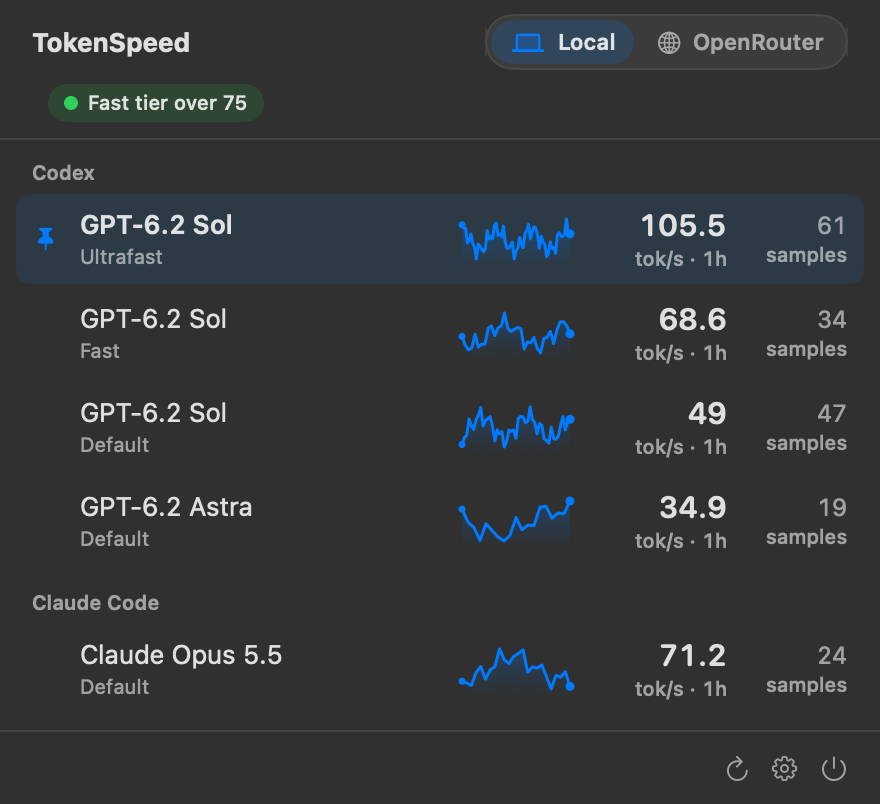
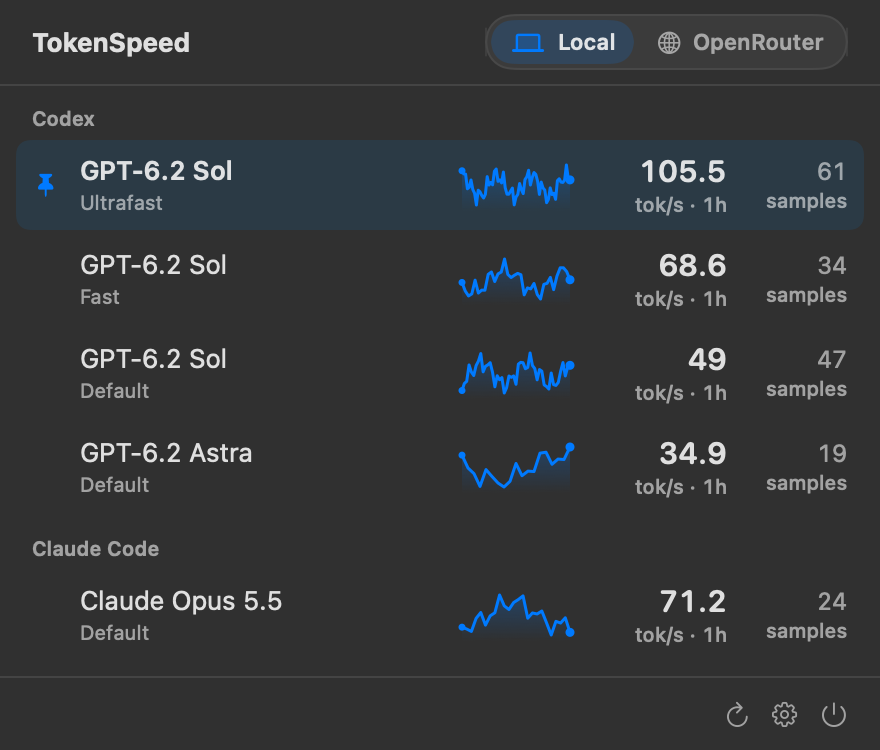
Make the TokenSpeed README easier to get started with

diff --git a/README.md b/README.md
@@ -6,25 +6,25 @@ A tiny macOS menu bar app that tracks output tokens per second for [OpenRouter](
 
 *Example data shown.*
 
-- **Local sessions.** See the last hour of Codex and Claude Code request TPS, grouped by model and speed tier, with sparklines and sample counts.
-- **OpenRouter watchlist.** Track median TPS and uptime for a specific provider, tier, or region, or let **Automatic** follow the fastest endpoint.
-- **Menu bar pin.** Hover over a row and click its pin to show that local model and tier or OpenRouter endpoint in the menu bar.
-- **Badge rules.** Set alerts on OpenRouter throughput or uptime. Active rules appear as colored dots in the menu bar and labeled pills in the popover.
-- **No API key or Dock icon.**
-
-The popover remembers whether you last viewed Local or OpenRouter.
-
 ## Install
 
-Requires macOS 14+, Swift 6, and [Task](https://taskfile.dev).
+Requires macOS 14+, Swift 6, and [Task](https://taskfile.dev). No API key is required.
 
 ```sh
-task install     # builds a release bundle into /Applications and launches it
+git clone https://github.com/ihales/tokenspeed.git
+cd tokenspeed
+task install
 ```
 
-To start TokenSpeed when you log in, turn on **Settings → General → Open TokenSpeed at login**.
+This builds TokenSpeed, installs it in `/Applications`, and launches it. Click the speedometer in your menu bar and choose **Local** to see recent requests from your existing Codex and Claude Code logs.
 
-Use `task run` for a debug build, `task build` to bundle into `dist/`, and `task uninstall` to remove the app.
+## Use TokenSpeed
+
+- **Compare speed tiers.** Use Local to see how the same model performed on the tiers you used in the last hour. Check the sample counts when comparing averages.
+- **Keep a reading in view.** Hover over the model and tier you use most and click the pin to show its TPS in the menu bar.
+- **Watch an OpenRouter endpoint.** Add a model under **Settings → Models** and choose a provider, tier, or region. **Automatic** follows the fastest endpoint. Set throughput or uptime thresholds under **Settings → Badge Rules**.
+
+TokenSpeed remembers your last tab. To start it at login, turn on **Settings → General → Open TokenSpeed at login**.
 
 ## How it works
 
